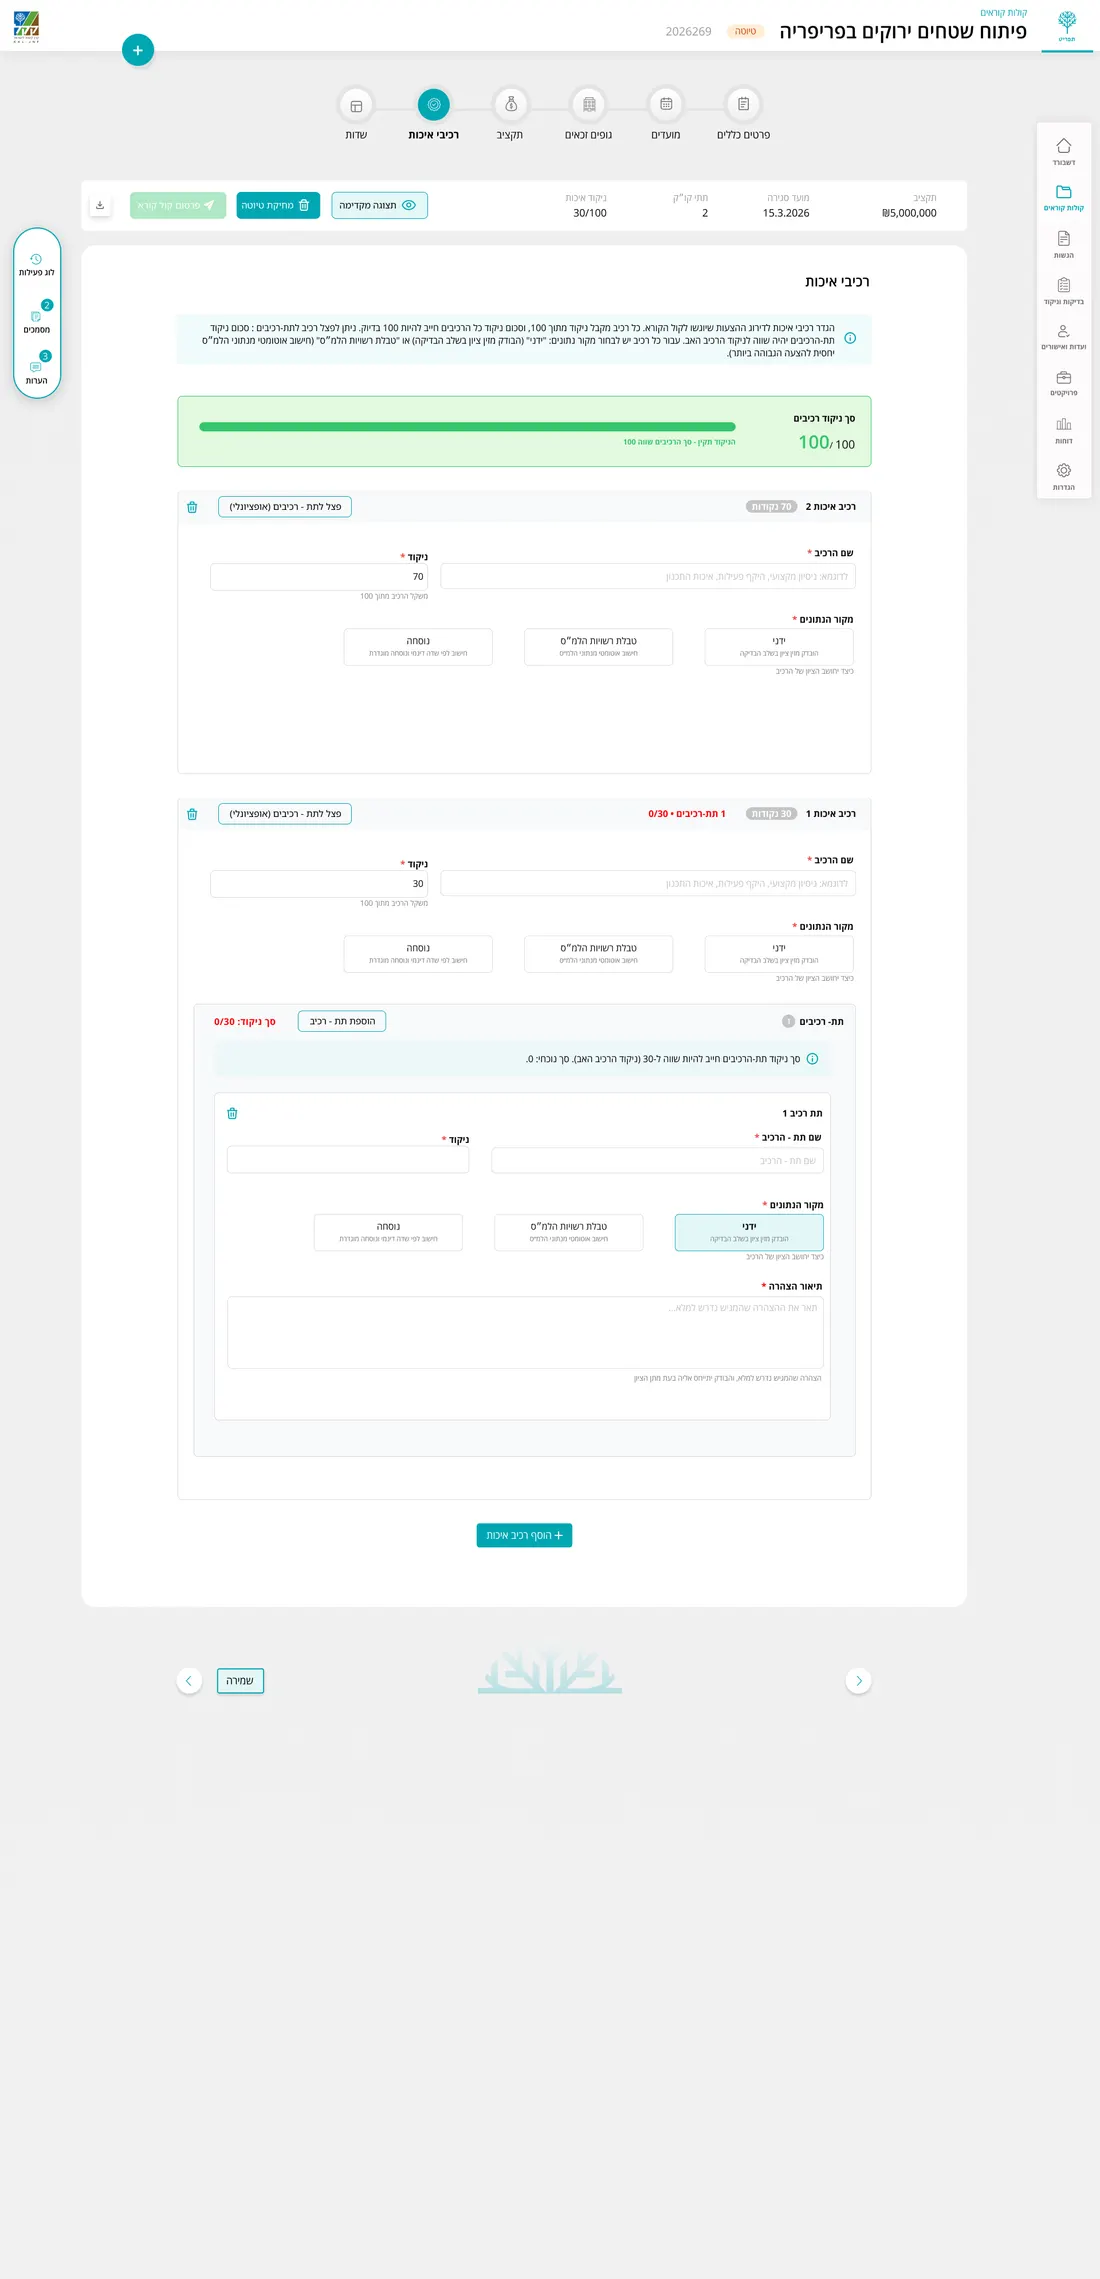
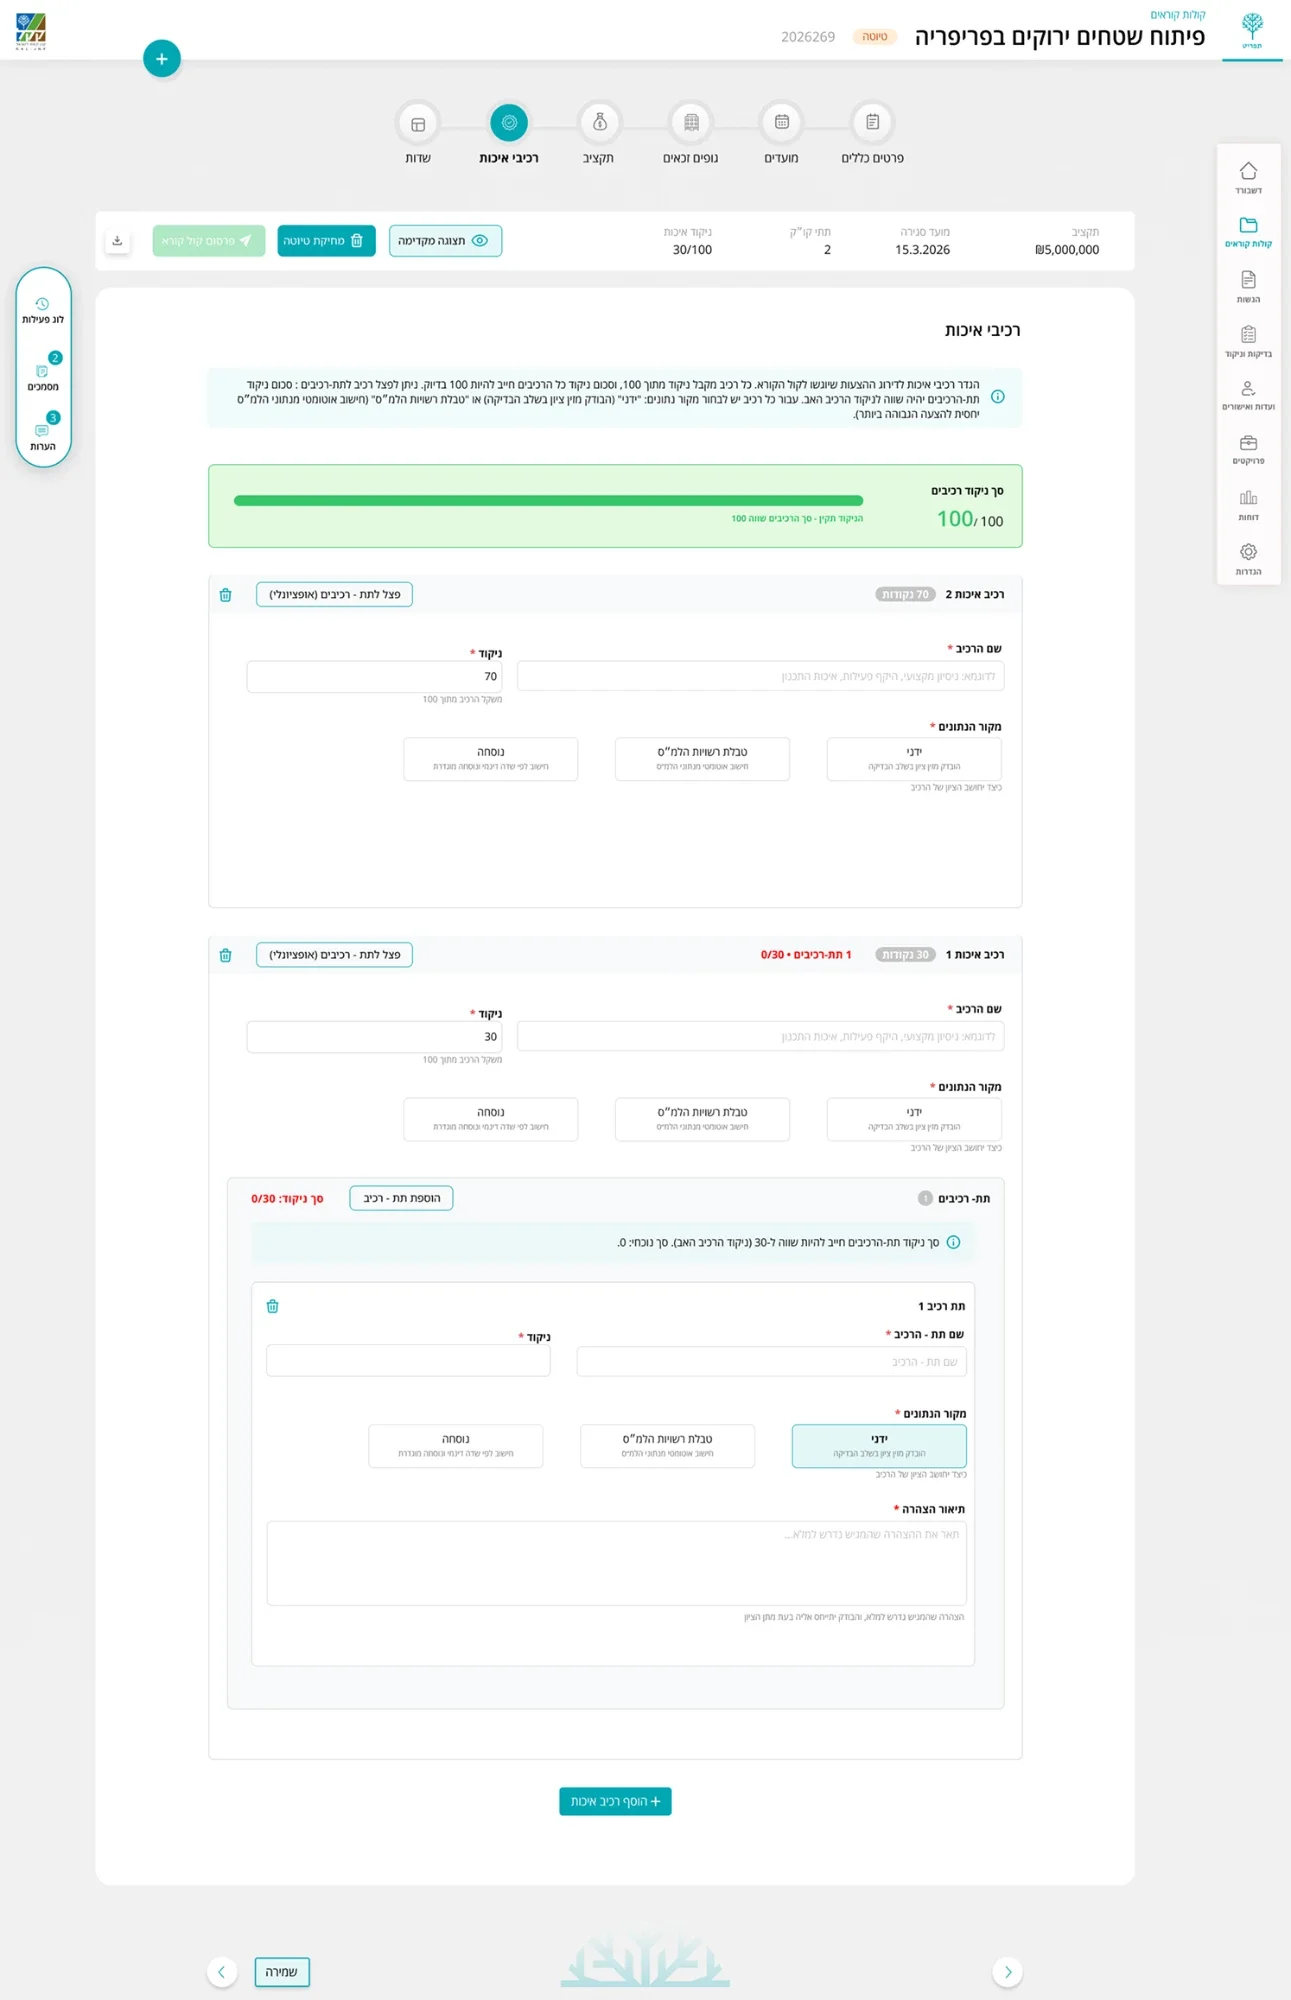
v1.0.22 — KKL: Moran's newer Entity, Funding and Criteria screens; darker coral
- KKL §06: onstage-entity, onstage-funding and backstage-criteria replaced
  with Moran's current screens (2026-09-29). Their crops are recomputed for
  the new aspect ratios (full width; entity whole, funding from 8%, criteria
  from 4% down) and the src carries ?v= because /assets is cached immutable.
- TravelHub h1: "whole trip." in #d0604a (3.4:1 on the hero) instead of
  Figma's #ef8e7f (2.1:1), which failed contrast even for large text.

diff --git a/work/kkl.html b/work/kkl.html
@@ -3,7 +3,7 @@
 <head>
   <meta charset="utf-8">
   <meta name="viewport" content="width=device-width, initial-scale=1">
-  <meta name="build" content="v1.0.21">
+  <meta name="build" content="v1.0.22">
   <title>KKL — call for proposals platform · Moran Weinish</title>
   <meta name="description" content="Case study: designing the system behind every KKL-JNF call for proposals. One connected process for KKL teams (Backstage) and applicants (Onstage). UX/UI by Moran Weinish at Comrax.">
   <link rel="canonical" href="https://moran-weinish.vercel.app/work/kkl">
@@ -380,7 +380,7 @@
       <h3 class="shots-title">Onstage — the applicant's journey</h3>
       <div class="shots two reveal">
         <div class="shot"><figure>
-          <div class="frame h460 raised crop" style="--x:.1066;--w:.8403;--y:.051;--h:.4107"><img src="/assets/img/kkl/onstage-entity.webp" alt="Entity identification: type and legal registration number" loading="lazy"></div>
+          <div class="frame h460 raised crop" style="--x:0;--w:1;--y:0;--h:.942"><img src="/assets/img/kkl/onstage-entity.webp?v=2026-09-29" alt="Entity identification: type and legal registration number" loading="lazy"></div>
           <figcaption>Entity identification - Applicant details are verified and used to shape the relevant submission flow.</figcaption>
         </figure></div>
         <div class="shot"><figure>
@@ -390,7 +390,7 @@
       </div>
       <div class="shots reveal">
         <div class="shot"><figure>
-          <div class="frame h586 crop" style="--x:.0691;--w:.931;--y:.0703;--h:.2544"><img src="/assets/img/kkl/onstage-funding.webp" alt="Requested funding step with live validation against the call's budget rules" loading="lazy"></div>
+          <div class="frame h586 crop" style="--x:0;--w:1;--y:.08;--h:.3675"><img src="/assets/img/kkl/onstage-funding.webp?v=2026-09-29" alt="Requested funding step with live validation against the call's budget rules" loading="lazy"></div>
           <figcaption>Requested funding - Funding amounts are checked in real time against the rules defined for the call.</figcaption>
         </figure></div>
       </div>
@@ -436,7 +436,7 @@
           <figcaption>Budget setup - Set funding models, limits, funding percentages and budget rules for each call.</figcaption>
         </figure></div>
         <div class="shot"><figure>
-          <div class="frame h300 crop" style="--y:.029;--h:.263"><img src="/assets/img/kkl/backstage-criteria.webp" alt="Evaluation criteria with weights and data sources" loading="lazy"></div>
+          <div class="frame h300 crop" style="--x:0;--w:1;--y:.04;--h:.3527"><img src="/assets/img/kkl/backstage-criteria.webp?v=2026-09-29" alt="Evaluation criteria with weights and data sources" loading="lazy"></div>
           <figcaption>Evaluation criteria - Define how proposals will be evaluated, including criteria, sub-criteria, scoring weights and data sources.</figcaption>
         </figure></div>
         <div class="shot"><figure>

diff --git a/work/travelhub.html b/work/travelhub.html
@@ -3,7 +3,7 @@
 <head>
   <meta charset="utf-8">
   <meta name="viewport" content="width=device-width, initial-scale=1">
-  <meta name="build" content="v1.0.21">
+  <meta name="build" content="v1.0.22">
   <title>TravelHub — plan the whole trip · Moran Weinish</title>
   <meta name="description" content="Case study: TravelHub, an end-to-end mobile trip planner that unifies itineraries, bookings, people and budgets in one place. UX/UI by Moran Weinish.">
   <link rel="canonical" href="https://moran-weinish.vercel.app/work/travelhub">
@@ -224,8 +224,9 @@
       .outcome2 p { font-size: 17px; line-height: 27px; }
       .takeaway p { font-size: 23px; }
     }
-      /* live Figma + decode (18:1265, characters 9+): "whole trip." is the coral accent */
-    .cs-hero h1 .accent { color: #ef8e7f; }
+      /* live Figma + decode (18:1265, characters 9+): "whole trip." is the coral accent — a darker coral than
+       Figma's #ef8e7f (2.1:1), which fails contrast even for large text; #d0604a is 3.4:1 (Itzik 2026-09-29) */
+    .cs-hero h1 .accent { color: #d0604a; }
   </style>
 </head>
 <body class="case">

diff --git a/work/bara.html b/work/bara.html
@@ -3,7 +3,7 @@
 <head>
   <meta charset="utf-8">
   <meta name="viewport" content="width=device-width, initial-scale=1">
-  <meta name="build" content="v1.0.21">
+  <meta name="build" content="v1.0.22">
   <title>Bara Herbs · Clini-Kal — guided clinical product selection · Moran Weinish</title>
   <meta name="description" content="Case study: Clini-Kal, a guided product finder for certified therapists on the Bara Professional platform. From treatment approach to a matched herbal product in 3–4 steps. UX/UI by Moran Weinish.">
   <link rel="canonical" href="https://moran-weinish.vercel.app/work/bara">

diff --git a/work/suzuki.html b/work/suzuki.html
@@ -3,7 +3,7 @@
 <head>
   <meta charset="utf-8">
   <meta name="viewport" content="width=device-width, initial-scale=1">
-  <meta name="build" content="v1.0.21">
+  <meta name="build" content="v1.0.22">
   <title>Suzuki Israel — refreshing the digital experience · Moran Weinish</title>
   <meta name="description" content="Case study: a visual refresh of Suzuki Israel's website. Clearer hierarchy, one consistent design system and a mobile-first experience, live on suzuki.co.il. UX/UI by Moran Weinish at Comrax.">
   <link rel="canonical" href="https://moran-weinish.vercel.app/work/suzuki">

diff --git a/index.html b/index.html
@@ -3,7 +3,7 @@
 <head>
   <meta charset="utf-8">
   <meta name="viewport" content="width=device-width, initial-scale=1">
-  <meta name="build" content="v1.0.21">
+  <meta name="build" content="v1.0.22">
   <title>Moran Weinish — Product & UX/UI Designer</title>
   <meta name="description" content="I make complex products feel simple. Product & UX/UI designer working across research, flows, systems and polished interfaces. Case studies: KKL, TravelHub, Bara Herbs, Suzuki Israel.">
   <link rel="canonical" href="https://moran-weinish.vercel.app/">
